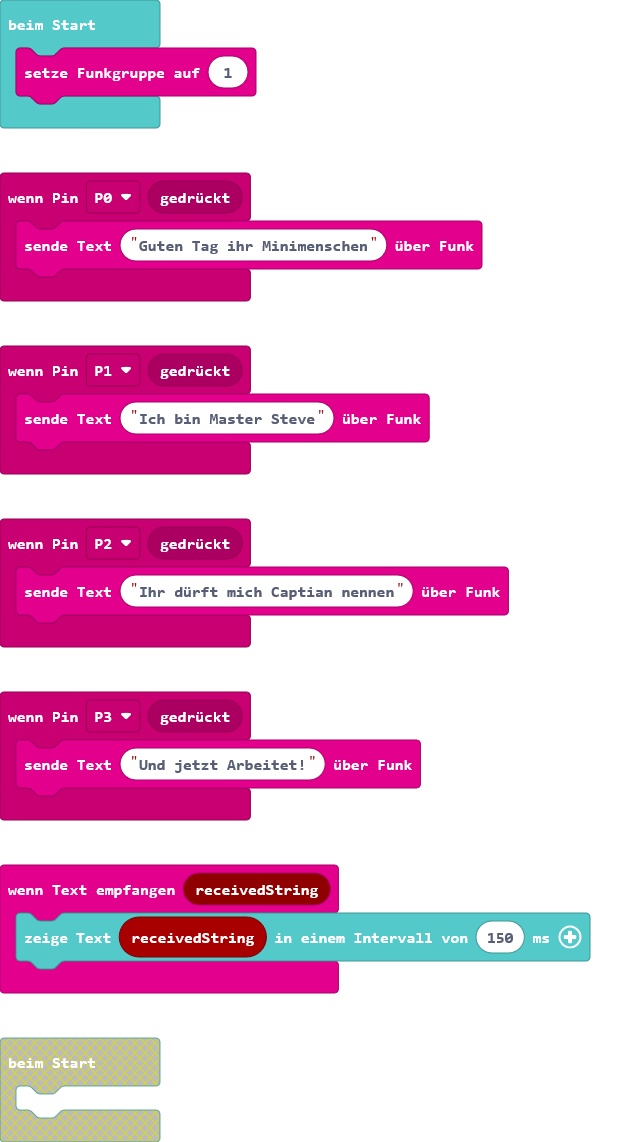
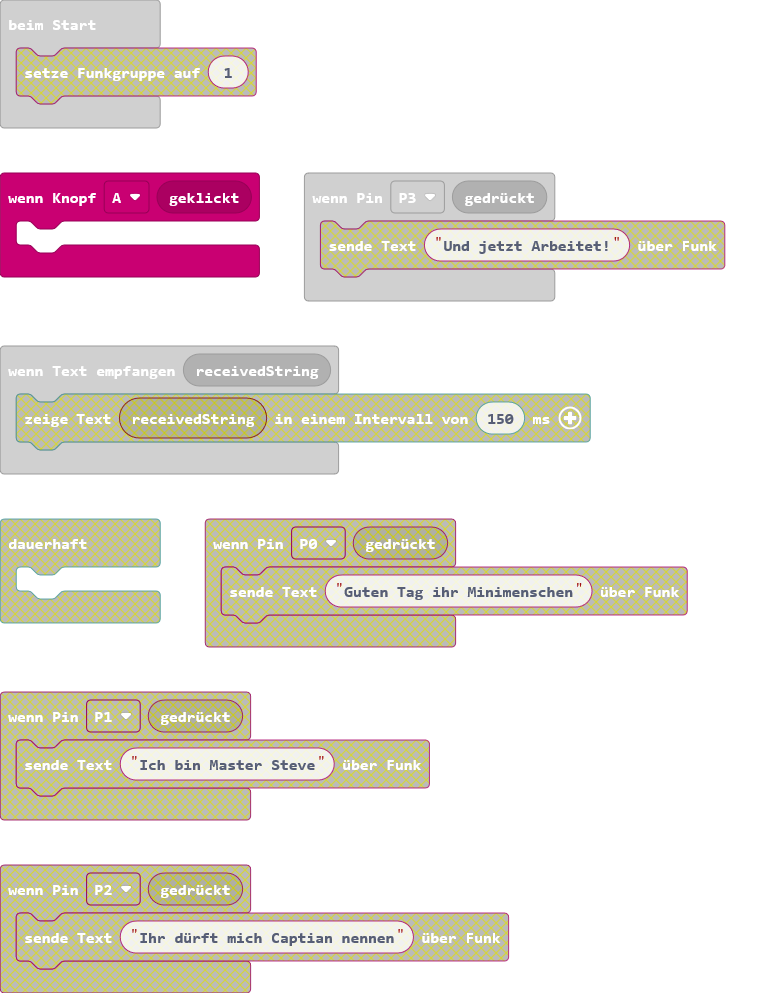
Aktualisiere main.blocks, main.ts

diff --git a/main.ts b/main.ts
@@ -1,19 +1,9 @@
-input.onPinTouchEvent(TouchPin.P1, input.buttonEventDown(), function () {
-    radio.sendString("Ich bin Master Steve")
+input.onButtonEvent(Button.A, input.buttonEventClick(), function () {
+	
 })
 radio.onReceivedString(function (receivedString) {
-    basic.showString(receivedString)
-})
-input.onPinTouchEvent(TouchPin.P0, input.buttonEventDown(), function () {
-    radio.sendString("Guten Tag ihr Minimenschen")
-})
-input.onPinTouchEvent(TouchPin.P2, input.buttonEventDown(), function () {
-    radio.sendString("Ihr dürft mich Captian nennen")
+	
 })
 input.onPinTouchEvent(TouchPin.P3, input.buttonEventDown(), function () {
-    radio.sendString("Und jetzt Arbeitet!")
-})
-radio.setGroup(1)
-basic.forever(function () {
 	
 })
